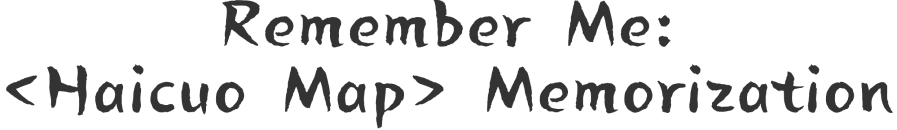
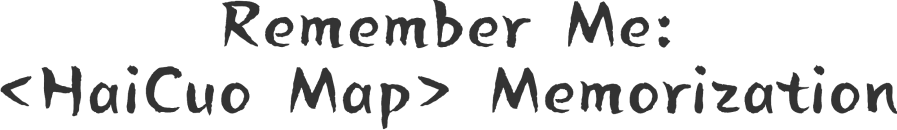
add modal, update reasons image and fix some bugs

diff --git a/src/components/HomeSections/HomeSections.js b/src/components/HomeSections/HomeSections.js
@@ -1,4 +1,4 @@
-import React from 'react';
+import React, { useState } from "react";
 import "./HomeSections.css"; 
 import OceanCreature from "../OceanCreature/OceanCreature";
 import SideBar from "../SideBar/SideBar";
@@ -138,7 +138,7 @@ export const SectionFour = ({ onWheel }) => {
           </div>
           <div className="text-container">
             <div className="text-chinese">“海错遗影”，这是一个关于《海错图》中已经逝去或是濒临危机的生物的记忆网站。</div>
-            <div className="text-english">"&lt;Haicuo Map&gt; Memorization" — a memorial website to the creatures that have passed away or are endangered, as illustrated in the ancient Chinese marine life map: &lt;Haicuo Map&gt;."</div>
+            <div className="text-english">"&lt;HaiCuo Map&gt; Memorization" — a memorial website to the creatures that have passed away or are endangered, as illustrated in the ancient Chinese marine life map: &lt;HaiCuo Map&gt;."</div>
           </div>
         </div>
       </div>
@@ -243,16 +243,26 @@ export const SectionSix = ({ onClick, selectedType, showSideBar, onTypeSelect })
 
 // Section 7
 export const SectionSeven = ({ onWheel }) => {
+  const [isModalOpen, setIsModalOpen] = useState(false);
+  const [isHovered, setIsHovered] = useState(false);
+
+  const toggleModal = () => {
+    setIsModalOpen(!isModalOpen);
+    if (isModalOpen) {
+      setIsHovered(false);
+    }
+  };
+
   return (
-    <section
-      className="page-section"
-      id="section-seven"
-      style={{
-        backgroundImage: `url('${process.env.PUBLIC_URL}/homepage/section-seven-bg.png')`,
-        backgroundSize: "100% 100%",
-        backgroundPosition: "center",
-        backgroundRepeat: "no-repeat",
-      }}
+    <section 
+      className="page-section" 
+      id="section-seven" 
+      style={{ 
+        backgroundImage: `url('${process.env.PUBLIC_URL}/homepage/section-seven-bg.png')`, 
+        backgroundSize: "100% 100%", 
+        backgroundPosition: "center", 
+        backgroundRepeat: "no-repeat" 
+      }} 
       onWheel={onWheel}
     >
       <div className="s5-page-container" style={{ bottom: "30vh" }}>
@@ -278,12 +288,108 @@ export const SectionSeven = ({ onWheel }) => {
         </div>
         {/* Book Logo */}
         <div className="book-logo">
-          <img
-            src={`${process.env.PUBLIC_URL}/homepage/book-logo.png`}
-            alt="Book Logo"
+          <img src={`${process.env.PUBLIC_URL}/homepage/book-logo.png`} alt="Book Logo" />
+        </div>
+      </div>
+
+      {/* Citation Logo */}
+      <div 
+        className="citation-logo-container"
+        onMouseEnter={() => !isModalOpen && setIsHovered(true)}
+        onMouseLeave={() => !isModalOpen && setIsHovered(false)}
+      >
+        <div 
+          className={`citation-logo ${isModalOpen || isHovered ? "focus-state" : ""}`}
+          onClick={!isModalOpen ? toggleModal : undefined}
+          style={{ cursor: isModalOpen ? 'default' : 'pointer' }}
+          title={!isModalOpen ? "Click here to view the cited data sources" : ""}
+        >
+          <img 
+            src={`${process.env.PUBLIC_URL}/homepage/citation-logo.png`} 
+            alt="Citation Logo" 
+            style={{ display: isModalOpen || isHovered ? 'none' : 'block' }}
+          />
+          <img 
+            src={`${process.env.PUBLIC_URL}/homepage/citation-logo-fs.png`} 
+            alt="Citation Logo Focus State" 
+            style={{ display: isModalOpen || isHovered ? 'block' : 'none' }}
           />
         </div>
       </div>
+
+      {/* Modal */}
+      {isModalOpen && (
+        <div className="modal-overlay">
+          <div className="modal-content">
+            <button className="modal-close-button" onClick={toggleModal}>×</button>
+            <div className="text-container">
+              {/* <div className="text-title">Reference</div> */}
+              <div className="text-content">
+                [1] 故宫博物院.清宫海错图[M].故宫出版社,2014.<br />
+                [2] 张辰亮.海错图笔记[M].中信出版集团股份有限公司,2020.<br />
+                [3] 中华人民共和国国务院新闻办公室. 中国的海洋生态环境保护[Z]. 北京: 中华人民共和国国务院新闻办公室, 2024.7.<br />
+                [4] 联合国环境规划署. (2011年8月24日). “环境署最新研究报告：地球上有多少物种？870万种”. 联合国新闻. https://news.un.org/zh/story/2011/08/157582<br />
+                [5] https://baike.baidu.com/item/棱皮龟<br />
+                [6] https://baike.baidu.com/item/中国鲎<br />
+                [7] https://baike.baidu.com/item/黄花鱼<br />
+                [8] https://baike.baidu.com/item/松江鲈<br />
+                [9] https://baike.baidu.com/item/带鱼<br />
+                [10] https://baike.baidu.com/item/儒艮<br />
+                [11] https://baike.baidu.com/item/海蛇<br />
+                [12] https://baike.baidu.com/item/石磺<br />
+                [13] https://baike.baidu.com/item/海笔<br />
+                [14] https://baike.baidu.com/item/弓形革囊星虫<br />
+                [15] https://baike.baidu.com/item/柳珊瑚<br />
+                [16] https://baike.baidu.com/item/沙蚕<br />
+                [17] https://baike.baidu.com/item/玳瑁<br />
+                [18] https://baike.baidu.com/item/锯鳐科<br />
+                [19] https://baike.baidu.com/item/柳叶鳗<br />
+                [20] https://baike.baidu.com/item/鲥鱼<br />
+                [21] https://baike.baidu.com/item/花鳗鲡<br />
+                [22] https://baike.baidu.com/item/海马<br />
+                [23] https://baike.baidu.com/item/海龙<br />
+                [24] https://baike.baidu.com/item/斑海豹<br />
+                [25] https://baike.baidu.com/item/水獺<br />
+                [26] https://baike.baidu.com/item/露脊鲸<br />
+                [27] baike.sogou.com/m/fullLemma?lid=461711<br />
+                [28] https://baike.baidu.com/item/锤头双髻鲨<br />
+                [29] https://baike.baidu.com/item/无沟双髻鲨<br />
+                [30] https://baike.baidu.com/item/路氏双髻鲨<br />
+                [31] https://baike.baidu.com/item/刀鲚<br />
+                [32] https://baike.baidu.com/item/牡蛎礁<br />
+                [33] en.namu.wiki<br />
+                [34] loachloachap.hatenablog.com<br />
+                [35] www.divessi.com<br />
+                [36] aninu.de<br />
+                [37] www.linkedin.com<br />
+                [38] www.ifaw.org<br />
+                [39] www.flickr.com<br />
+                [40] k.sina.cn<br />
+                [41] oceanomics.blogspot.com<br />
+                [42] www.sohu.com<br />
+                [43] www.disl.edu/<br />
+                [44] sdg.iisd.org<br />
+                [45] https://kknews.cc/<br />
+                [46] http://www.eslitech.com/<br />
+                [47] zh.wikipedia.org<br />
+                [48] www.shutterstock.com<br />
+                [49] lasaisonbleue.com<br />
+                [50] www.chinapress.com.my<br />
+                [51] http://aquaria.palo-alto.ca.us/<br />
+                [52] www.enanyang.my<br />
+                [53] wapbaike.baidu.com<br />
+                [54] baike.baidu.com<br />
+                [55] www.ifaw.org<br />
+                [56] www.zooborns.com<br />
+                [57] baike.baidu.com<br />
+                [58] conchology.be<br />
+                [59] en.yna.co.kr<br />
+                [60] bk.chimelong.com<br />
+              </div>
+            </div>
+          </div>
+        </div>
+      )}
     </section>
   );
 };

diff --git a/src/components/HomeSections/HomeSections.css b/src/components/HomeSections/HomeSections.css
@@ -316,3 +316,89 @@
   font-weight: normal;
   font-style: normal;
 }
+
+
+/* Section 7 */
+.citation-logo-container {
+  position: absolute;
+  top: 10vh;
+  right: 12vw;
+  z-index: 10;
+  cursor: pointer;
+}
+
+.citation-logo-container img {
+  max-width: 3.3vw; 
+  max-height: 3.7vh;
+}
+
+.modal-overlay {
+  position: fixed;
+  top: 0;
+  left: 0;
+  width: 100vw;
+  height: 100vh;
+  display: flex;
+  justify-content: center;
+  align-items: center;
+  z-index: 100;
+}
+
+.modal-content {
+  display: flex;
+  justify-content: center;
+  align-items: center;
+  position: relative;
+  width: 60vw;
+  height: 75vh;
+  background-color: rgba(51, 51, 51, 0.8);
+  color: white;
+  border-radius: 20px;
+}
+
+.modal-close-button {
+  position: absolute;
+  top: 15px;
+  right: 15px;
+  background: none;
+  border: none;
+  color: white;
+  font-size: 30px;
+  cursor: pointer;
+  line-height: 1;
+}
+
+.modal-content .text-container {
+  width: 80%; 
+  max-height: 70%; 
+  display: flex;
+  flex-direction: column;
+  align-items: flex-start; /* 水平靠左 */
+  overflow-y: auto; /* 允许垂直滚动 */
+  padding: 20px;
+  font-family: "Poppins", sans-serif;
+}
+@font-face {
+  font-family: "Poppins";
+  src: url("../../../public/fonts/Poppins-Light.ttf");
+  font-weight: normal;
+  font-style: normal;
+}
+
+.modal-content .text-title {
+  width: 100%;
+  text-align: center;
+  margin-bottom: 15px;
+  font-size: 1.8vw; 
+  line-height: 1.5;
+  font-weight: 600;
+}
+
+.modal-content .text-content {
+  width: 100%;
+  text-align: left;
+  overflow-wrap: break-word; /* 长文本自动换行 */
+  font-size: 1.2vw; 
+  line-height: 1.8;
+  font-weight: 500;
+}

diff --git a/src/components/HomePage/HomePage.js b/src/components/HomePage/HomePage.js
@@ -63,7 +63,7 @@ const HomePage = () => {
     if (sectionSix) {
       const sectionSixPosition = sectionSix.getBoundingClientRect();
       // 判断 section-six 是否在可视区域中
-      if (sectionSixPosition.top <= window.innerHeight && sectionSixPosition.bottom >= 0) {
+      if (sectionSixPosition.top <= window.innerHeight / 2 && sectionSixPosition.bottom >= window.innerHeight / 2) {
         setShowSideBar(true); // 显示 SideBar
       } else {
         setShowSideBar(false); // 隐藏 SideBar

diff --git a/public/index.html b/public/index.html
@@ -25,7 +25,7 @@
       work correctly both with client-side routing and a non-root public URL.
       Learn how to configure a non-root public URL by running `npm run build`.
     -->
-    <title>Remember Me: Haicuo Map's Memorization</title>
+    <title>Remember Me: HaiCuo Map's Memorization</title>
   </head>
   <body>
     <noscript>You need to enable JavaScript to run this app.</noscript>
